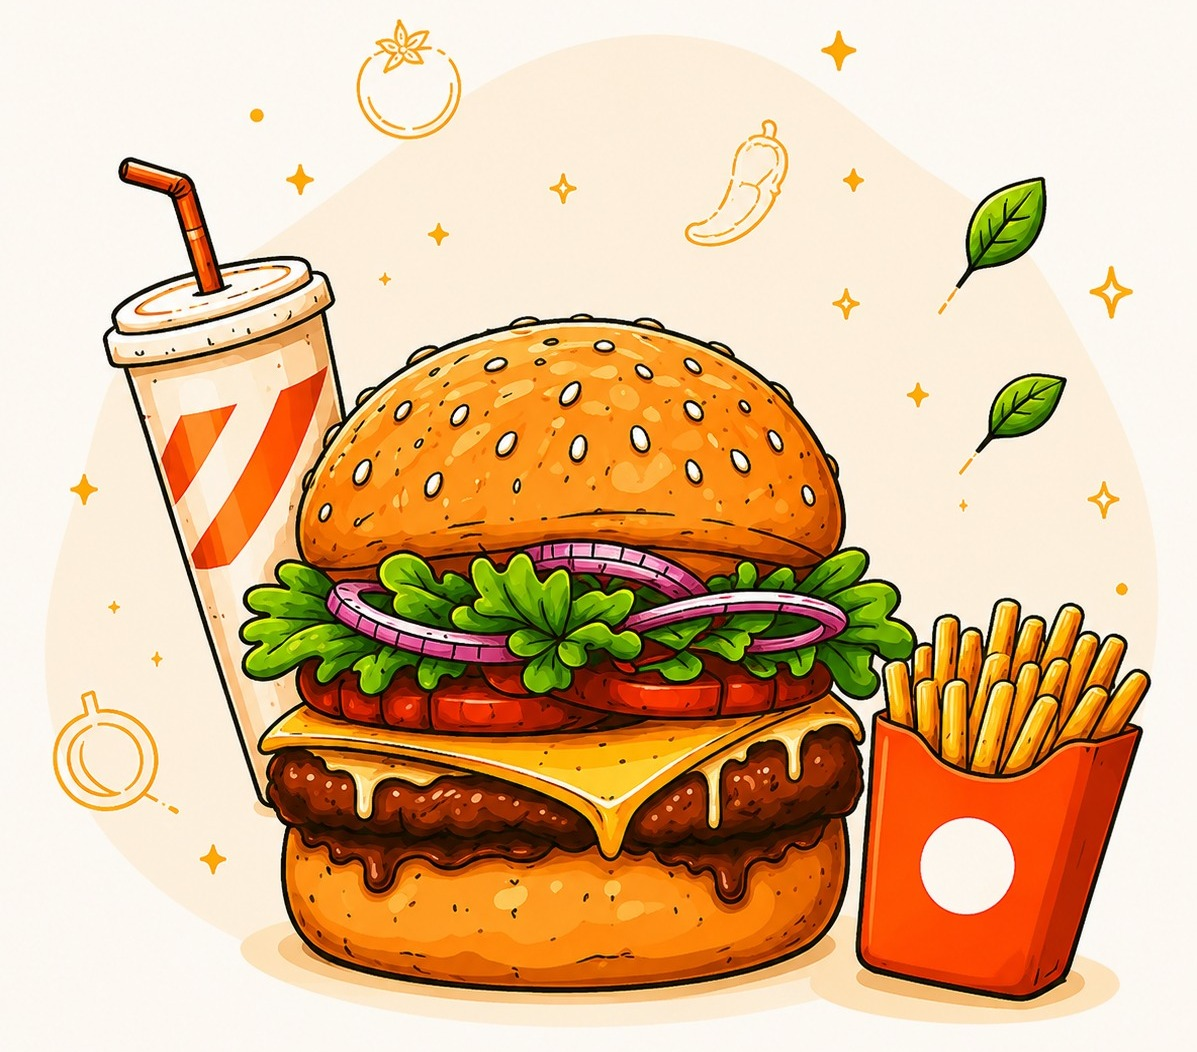
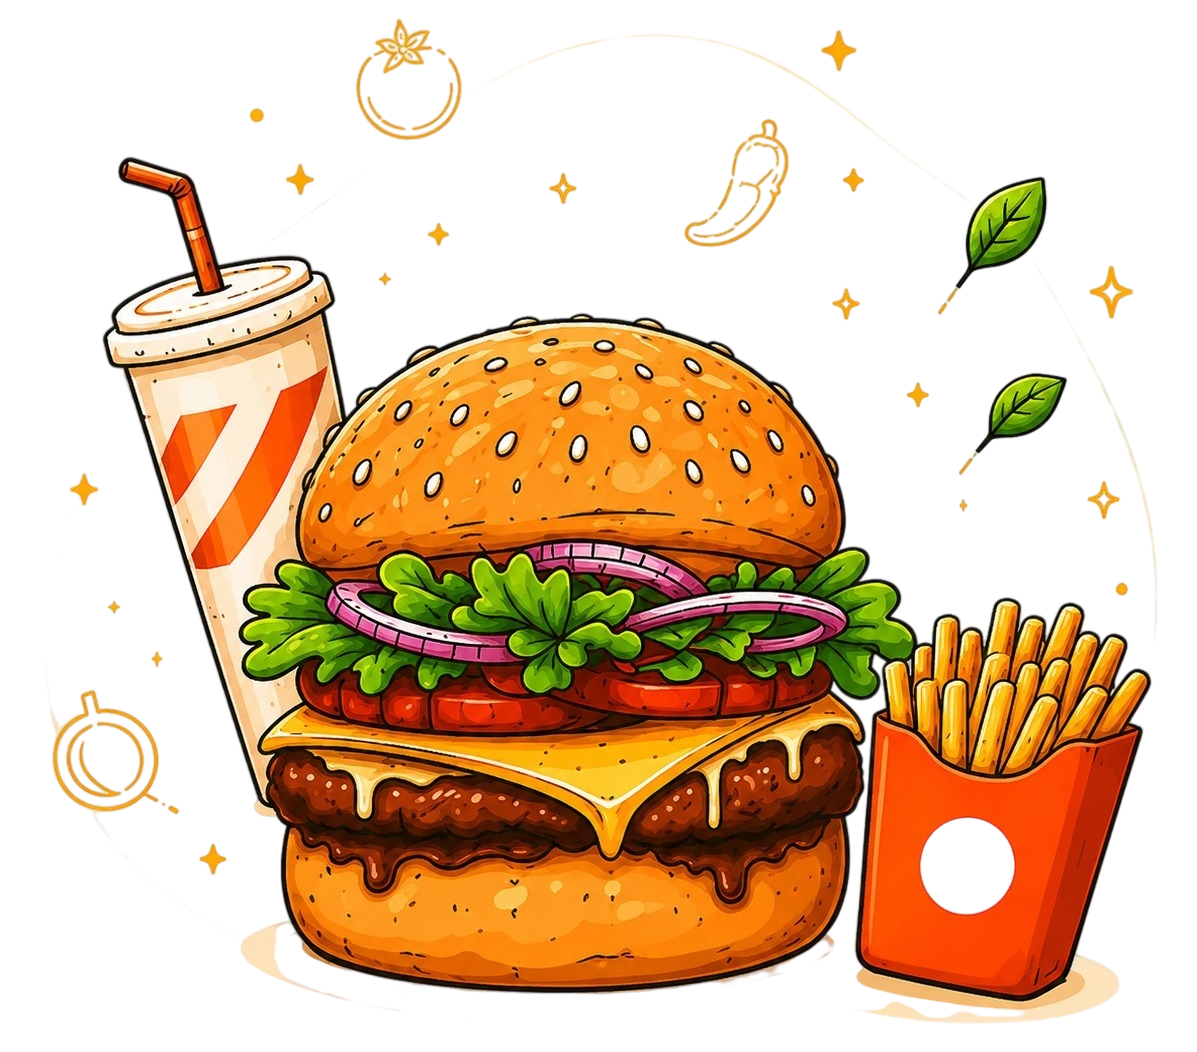
updated onboarding page

Changed region(s): [[0.2164, 0.0304, 0.9891, 0.6996], [0.0309, 0.3346, 0.8655, 1.0], [0.7109, 0.6084, 0.7419, 0.73]]

diff --git a/lib/pages/onBoarding_screen/onboard.dart b/lib/pages/onBoarding_screen/onboard.dart
@@ -168,7 +168,7 @@ class _OnboardState extends State<Onboard> {
                       ],
                     ),
                     height: 65,
-                    margin: const EdgeInsets.symmetric(horizontal: 40, vertical: 30),
+                    margin: const EdgeInsets.symmetric(horizontal: 45, vertical: 30),
                     width: double.infinity,
                     child: Stack(
                       children: [
@@ -178,7 +178,7 @@ class _OnboardState extends State<Onboard> {
                             style: GoogleFonts.inter(
                               color: Colors.white,
                               fontSize: 20,
-                              fontWeight: FontWeight.w700,
+                              fontWeight: FontWeight.w600,
                             ),
                           ),
                         ),
